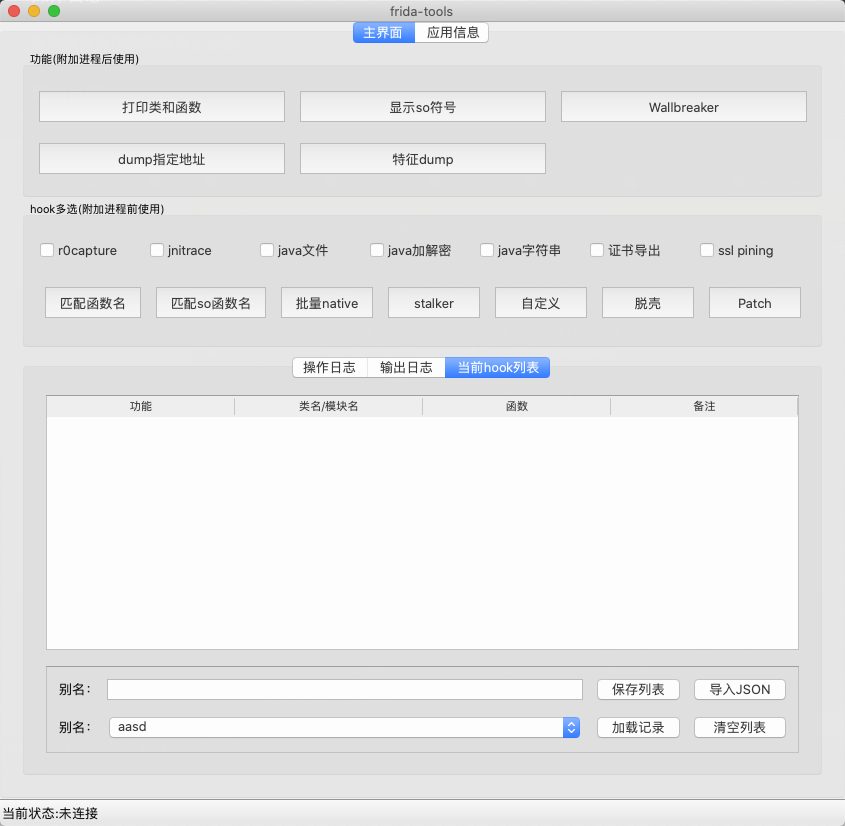
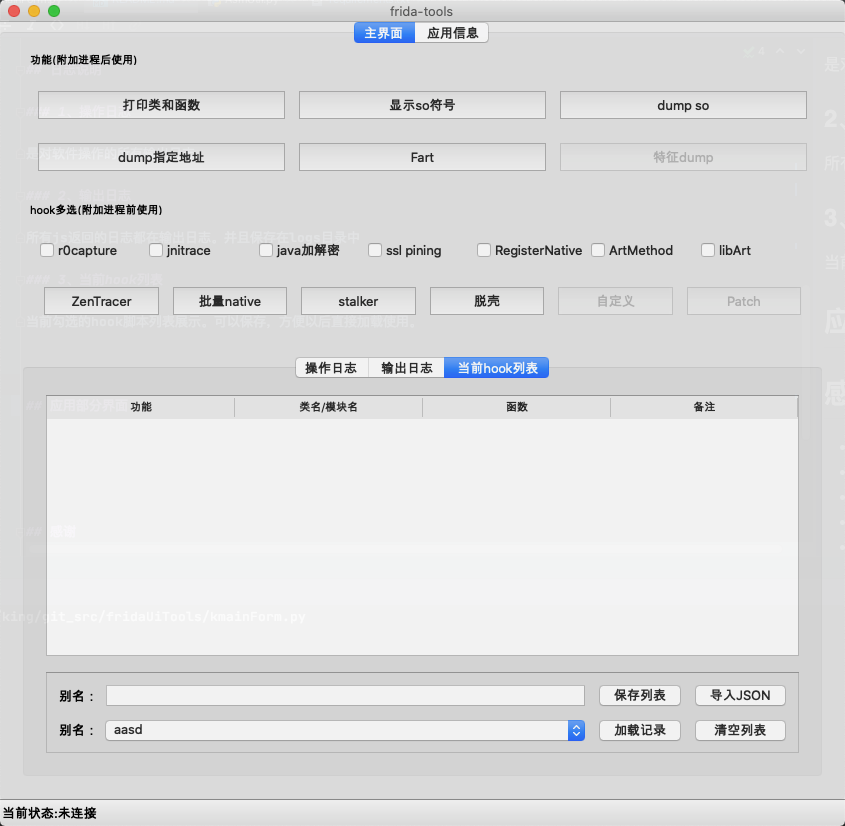
细节调整

diff --git a/kmainForm.py b/kmainForm.py
@@ -51,6 +51,7 @@ class kmainForm(QMainWindow):
         self.actionClearLogs.triggered.connect(self.ClearLogs)
         self.actionClearOutlog.triggered.connect(self.ClearOutlog)
         self.actionPushFartSo.triggered.connect(self.PushFartSo)
+        self.actionClearHookJson.triggered.connect(self.ClearHookJson)
 
         self.btnShowExport.clicked.connect(self.showExport)
         self.btnShowMethods.clicked.connect(self.showMethods)
@@ -252,9 +253,18 @@ class kmainForm(QMainWindow):
         self.log(res)
         res = CmdUtil.adbshellCmd("cp /data/local/tmp/fart/fart64.so /data/app/", 2)
         self.log(res)
-
-
         QMessageBox().information(self, "提示", "上传完成")
+
+    def ClearHookJson(self):
+        path = "./hooks/"
+        ls = os.listdir(path)
+        for i in ls:
+            c_path = os.path.join(path, i)
+            try:
+                os.remove(c_path)
+            except:
+                pass
+        self.updateCmbHooks()
 
     #进程结束时的状态切换，和打印
     def taskOver(self):
@@ -605,6 +615,9 @@ class kmainForm(QMainWindow):
 
     def saveHooks(self):
         self.log("保存hook列表")
+        if len(self.hooksData)<=0:
+            QMessageBox().information(self, "提示", "未设置hook项,无法保存")
+            return
         saveHooks=self.txtSaveHooks.text()
         if len(saveHooks)<=0:
             self.log("未填写保存的别名")
@@ -627,7 +640,6 @@ class kmainForm(QMainWindow):
         self.chkRegisterNative.setChecked(self.chkRegisterNative.tag in self.hooksData)
         self.chkArtMethod.setChecked(self.chkArtMethod.tag in self.hooksData)
         self.chkLibArt.setChecked(self.chkLibArt.tag in self.hooksData)
-        self.chkDumpDex.setChecked(self.chkDumpDex.tag in self.hooksData)
 
     def loadJson(self,filepath):
         with open(filepath, "r", encoding="utf8") as hooksFile:
@@ -660,9 +672,12 @@ class kmainForm(QMainWindow):
         self.tabHooks.setRowCount(0)
         self.tabHooks.setHorizontalHeaderLabels(self.header)
         self.tabHooks.horizontalHeader().setSectionResizeMode(QHeaderView.Stretch)
+        self.updateCmbHooks()
 
     #更新加载hook列表
     def updateCmbHooks(self):
+        self.cmbHooks.clear()
+        self.cmbHooks.addItem("选择hook列表")
         for name in os.listdir("./hooks"):
             if name.index(name)>=0:
                 self.cmbHooks.addItem(name.replace(".json",""))

diff --git a/README.md b/README.md
@@ -13,19 +13,20 @@ frida_tools是一个界面化整理脚本的工具。新人的练手作品。参
 > * 模糊匹配函数进行批量hook（整合ZenTracer）
 > * 模糊匹配so函数批量hook（参数统一方式打印。所以输出只能做参考）
 > * native的sub函数批量hook（参数统一方式打印。所以输出只能做参考）
-> * stalker的trace
-> * 自定义脚本添加
-> * 脱壳相关（整合frida_dump、FRIDA-DEXDump、fart）
-> * patch汇编代码
+> * stalker的trace（整合sktrace）
 > * 整合frida_hook_libart
+> * 脱壳相关（整合frida_dump、FRIDA-DEXDump、fart）
+> * 自定义脚本添加 (todo 待开发)
+> * patch汇编代码 (todo 待开发)
+
 
 ## 调用功能如下（附加进程后使用）
 
 > * 模糊匹配类和函数打印（输出时间较长，如果想打印全部。就都填空即可）
 > * 模糊匹配so符号打印（输出时间较长，如果想打印全。就都填空即可）
 > * dump打印指定地址
-> * 特征dump（搜索内存中的指定特征，然后匹配指定大小。是对之前脱壳里面的功能单独抽出）
-> * 整合wallbreaker（内存中搜索到类的结构数据打印）
+> * dump指定模块
+> * 特征dump（todo 待开发）
 
 ## 应用信息
 
@@ -47,11 +48,19 @@ frida_tools是一个界面化整理脚本的工具。新人的练手作品。参
 
 
 
-## 应用界面
+## 应用部分界面
 
+![image-20210623223153869](./img/image-20210618123336357.png)
 
+![image-20210623224721847](./img/image-20210623224721847.png)
 
+![image-20210623224754971](./img/image-20210623224754971.png)
 
+## 使用说明
+
+软件里面有很多地方用到了缓存数据。缓存数据是附加一次进程后，保存下来的module和class列表。这样方便智能的检索。所以一般第一次使用的时候，先附加一次目标进程，就有缓存数据可以使用了。
+
+软件目前应该还存在很多瑕疵和bug。我会在实用中慢慢修补。
 
 ## 感谢
 
@@ -62,4 +71,5 @@ frida_tools是一个界面化整理脚本的工具。新人的练手作品。参
 * [frida_dump](https://github.com/lasting-yang/frida_dump)
 * [FRIDA-DEXDump](https://github.com/hluwa/FRIDA-DEXDump)
 * [FART](https://github.com/hanbinglengyue/FART)
+* [sktrace](https://github.com/bmax121/sktrace)
 
